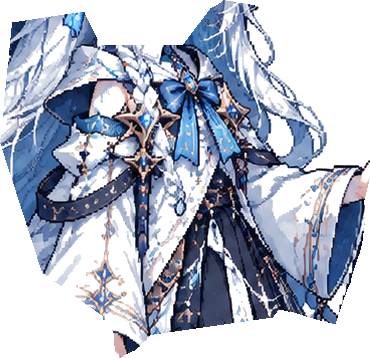
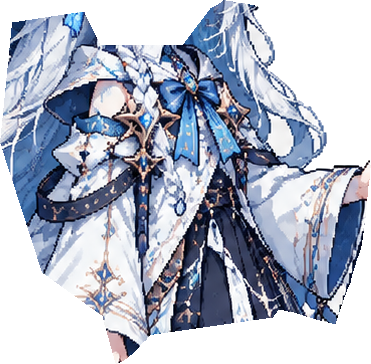
fix: 立绘抠图吃掉白色部分；玩家仍陷进地面（脚底基准取错）
1) 抠图：
- 之前用「颜色接近背景就透明」的全局阈值，角色本身就是白裙白帽，
  于是裙子和帽檐被挖出大洞，游戏里透出背景的绿色。
- 改成「从图片四边做连通域洪泛」：只有和边框连通、且接近背景色的像素才透明，
  角色内部的白色完整保留。轮廓像素 409k → 493k。

2) 站位（实测数据说话）：
- 临时脚本读出玩家真实参数：胶囊 size=(0.77,1.96) offset=(0,-0.35)，
  旧精灵 bounds 高 2.75、底边比碰撞盒底边还低 0.045（含透明留白）。
- 之前把「旧精灵 bounds 底边」当基准，等于把新美术放到留白下面 → 陷进地里。
- 改成对齐「胶囊碰撞盒底边」（就是站立时的地面线），读之前先 Physics2D.SyncTransforms()。

3) 尺寸：2.1（含帽子），比之前的 1.8 大一档。

diff --git a/Assets/Scripts/Player.cs b/Assets/Scripts/Player.cs
@@ -173,11 +173,14 @@ public class Player : MonoBehaviour
         // 血量低于 33% 时的红屏 + 心跳
         LowHealthWarning.Attach(this);
 
-        // 换成冰蓝星辉魔法少女的骨骼：脚底沿用旧精灵的视觉底边（旧模型本来就站得对）
-        float feetY = bodySprite != null
-            ? bodySprite.bounds.min.y - transform.position.y
-            : (bodyCollider != null ? bodyCollider.bounds.min.y - transform.position.y : -0.75f);
-        WitchRig witch = WitchRig.Attach(this, feetY, 1.8f);
+        // 换成冰蓝星辉魔法少女的骨骼。
+        // 脚底对齐「胶囊碰撞盒底边」——实测玩家胶囊 size=(0.77,1.96) offset=(0,-0.35)，
+        // 它的底边正好是站立时的地面高度；旧精灵的 bounds 底边含透明留白，用它当基准会陷进地里。
+        Physics2D.SyncTransforms();
+        float feetY = bodyCollider != null
+            ? bodyCollider.bounds.min.y - transform.position.y
+            : -1.33f;
+        WitchRig witch = WitchRig.Attach(this, feetY, 2.1f);
         if (witch != null)
         {
             // 关掉玩家身上所有旧的 SpriteRenderer（之前只关了 bodySprite，结果旧的还在显示，
